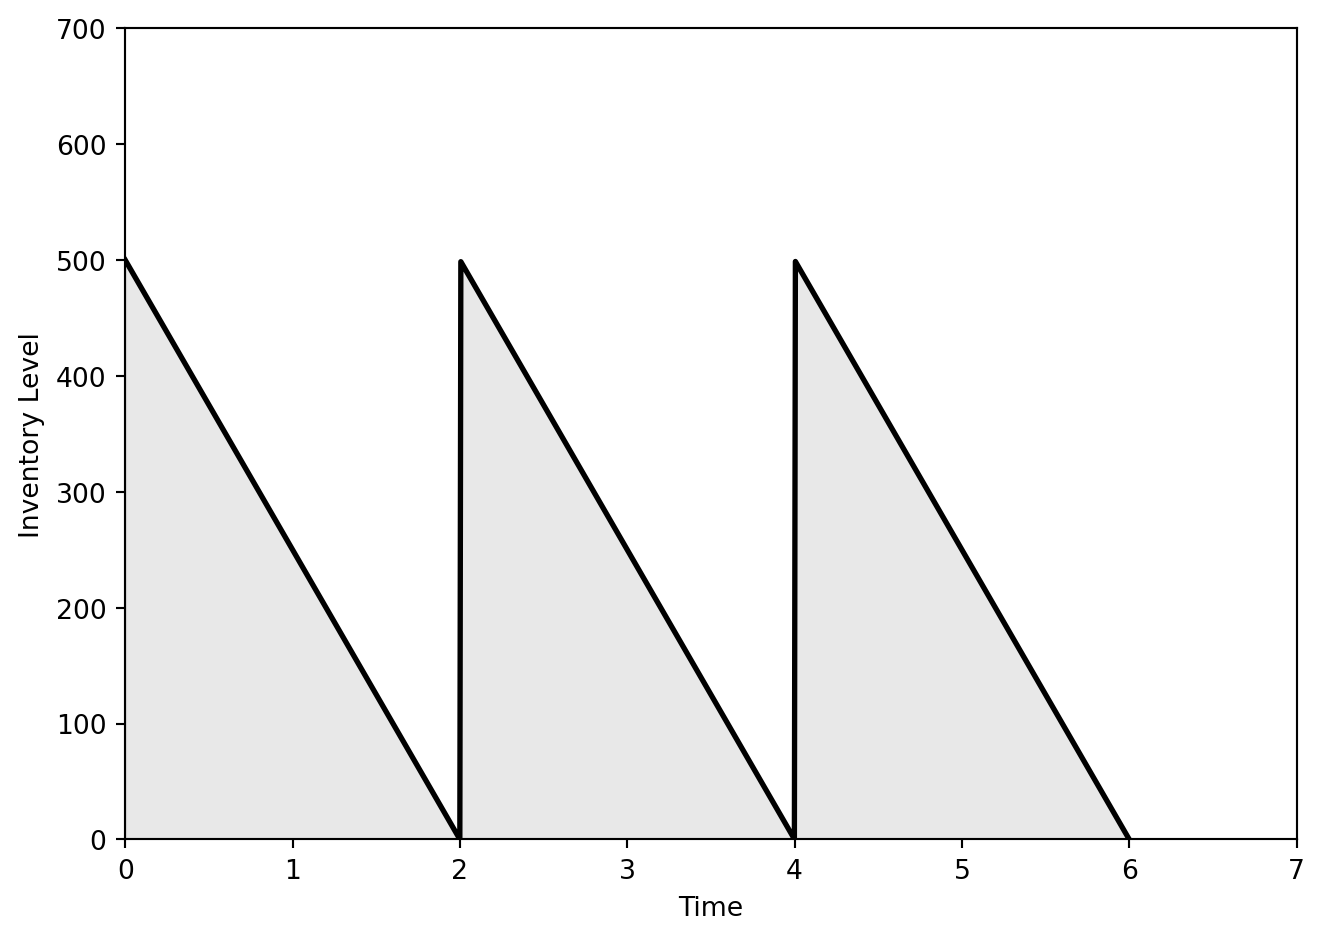
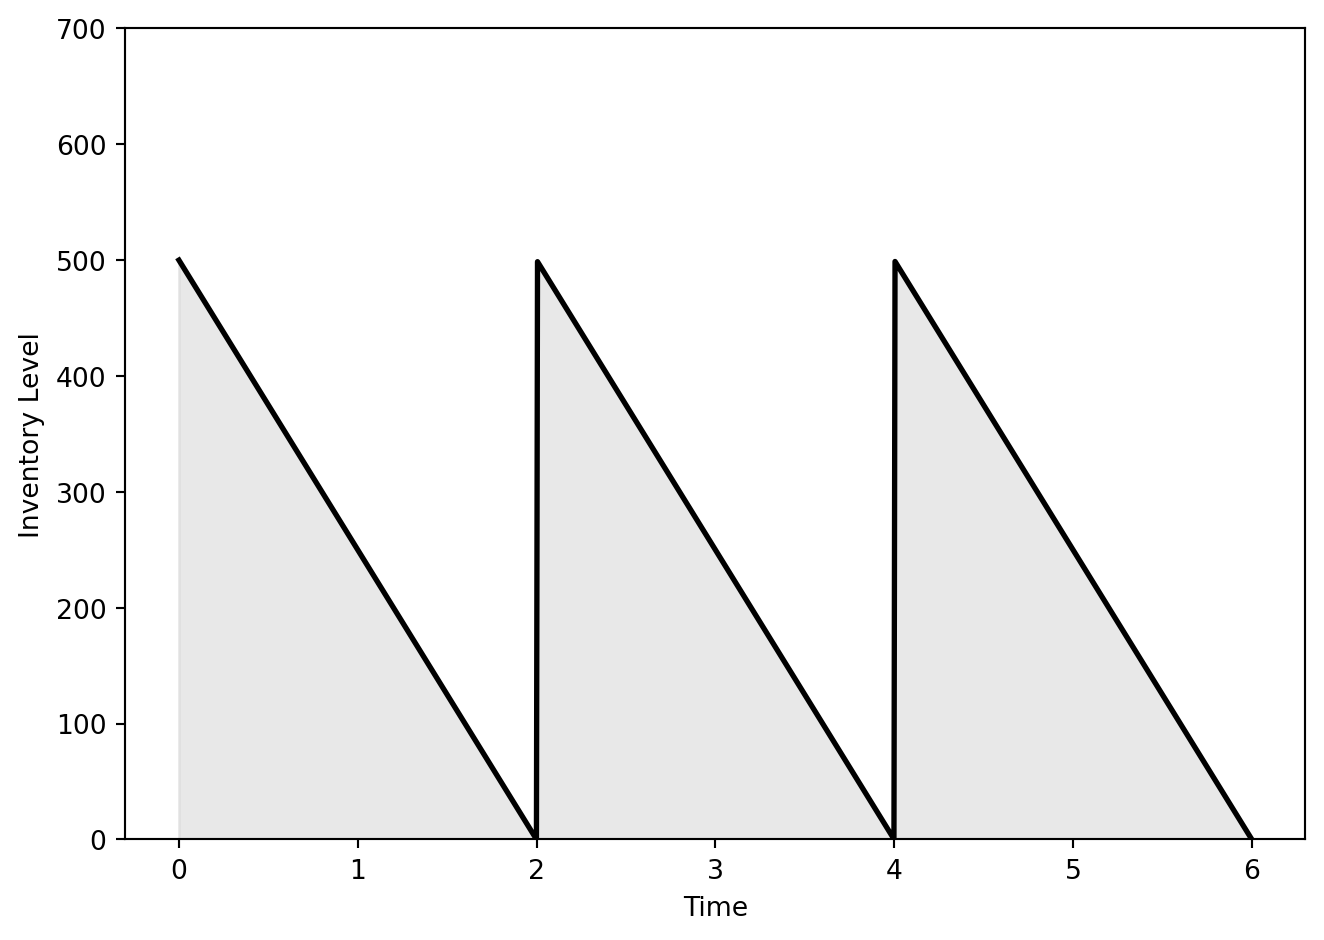
Built site for gh-pages

diff --git a/inventory/intro.html b/inventory/intro.html
@@ -346,7 +346,7 @@ Note
 \text{面積} \times h = 1500h
 \]</span></p>
 <p>となることがわかる。</p>
-<div id="3d426bb0" class="cell" data-execution_count="1">
+<div id="880750be" class="cell" data-execution_count="1">
 <details class="code-fold">
 <summary>Code</summary>
 <div class="sourceCode cell-code" id="cb1"><pre class="sourceCode python code-with-copy"><code class="sourceCode python"><span id="cb1-1"><a href="#cb1-1" aria-hidden="true" tabindex="-1"></a><span class="im">import</span> matplotlib.pyplot <span class="im">as</span> plt</span>
@@ -373,7 +373,7 @@ Note
 </div>
 </div>
 <p>一般的に、在庫量が定数ではなく、時間とともに変化する。例えば、発注量を <span class="math inline">\(500\)</span> とし、6 日間の在庫量を考える。</p>
-<div id="8f36895d" class="cell" data-execution_count="2">
+<div id="c0dd0d1f" class="cell" data-execution_count="2">
 <details class="code-fold">
 <summary>Code</summary>
 <div class="sourceCode cell-code" id="cb2"><pre class="sourceCode python code-with-copy"><code class="sourceCode python"><span id="cb2-1"><a href="#cb2-1" aria-hidden="true" tabindex="-1"></a><span class="co"># Parameters</span></span>
@@ -392,9 +392,8 @@ Note
 <span id="cb2-14"><a href="#cb2-14" aria-hidden="true" tabindex="-1"></a>plt.ylabel(<span class="st">"Inventory Level"</span>)</span>
 <span id="cb2-15"><a href="#cb2-15" aria-hidden="true" tabindex="-1"></a>plt.axhline(<span class="dv">0</span>, color<span class="op">=</span><span class="st">"gray"</span>, linewidth<span class="op">=</span><span class="dv">1</span>)</span>
 <span id="cb2-16"><a href="#cb2-16" aria-hidden="true" tabindex="-1"></a>plt.ylim(bottom<span class="op">=</span><span class="dv">0</span>, top<span class="op">=</span>Q <span class="op">+</span> <span class="dv">200</span>)</span>
-<span id="cb2-17"><a href="#cb2-17" aria-hidden="true" tabindex="-1"></a>plt.xlim(<span class="dv">0</span>, <span class="fl">3.5</span> <span class="op">*</span> T)</span>
-<span id="cb2-18"><a href="#cb2-18" aria-hidden="true" tabindex="-1"></a>plt.tight_layout()</span>
-<span id="cb2-19"><a href="#cb2-19" aria-hidden="true" tabindex="-1"></a>plt.show()</span></code><button title="Copy to Clipboard" class="code-copy-button"><i class="bi"></i></button></pre></div>
+<span id="cb2-17"><a href="#cb2-17" aria-hidden="true" tabindex="-1"></a>plt.tight_layout()</span>
+<span id="cb2-18"><a href="#cb2-18" aria-hidden="true" tabindex="-1"></a>plt.show()</span></code><button title="Copy to Clipboard" class="code-copy-button"><i class="bi"></i></button></pre></div>
 </details>
 <div class="cell-output cell-output-display">
 <div>
